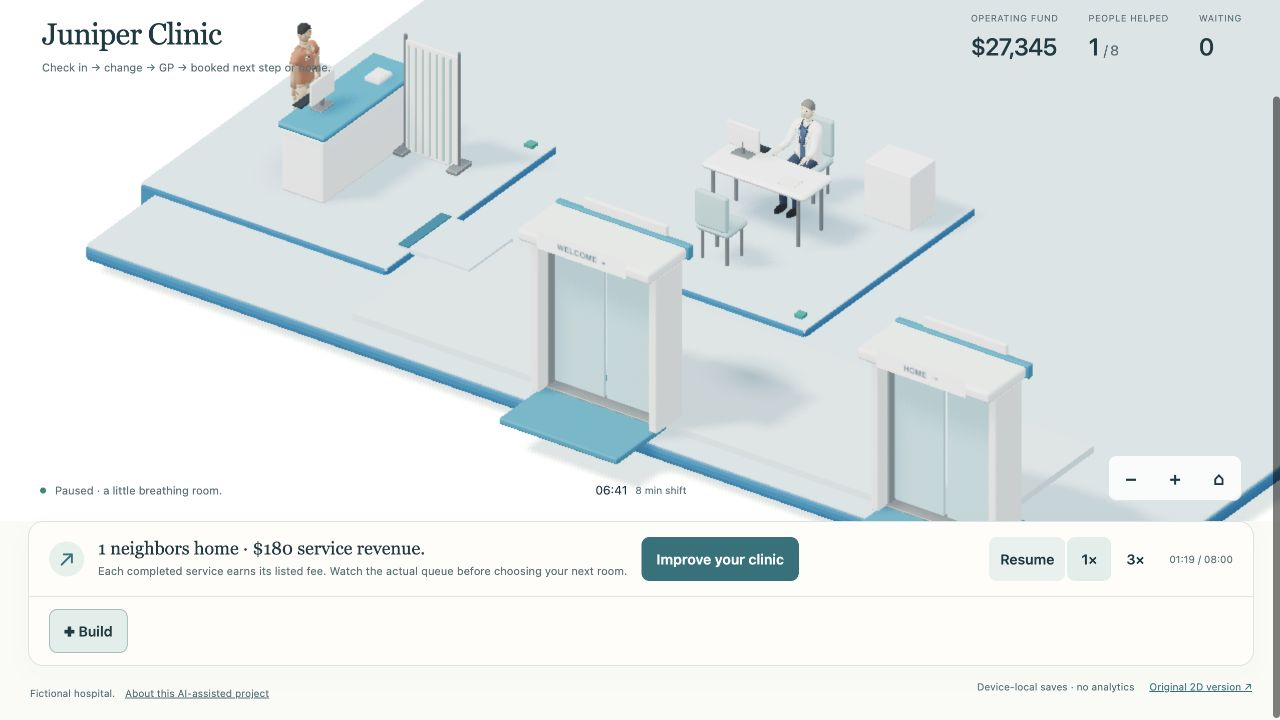
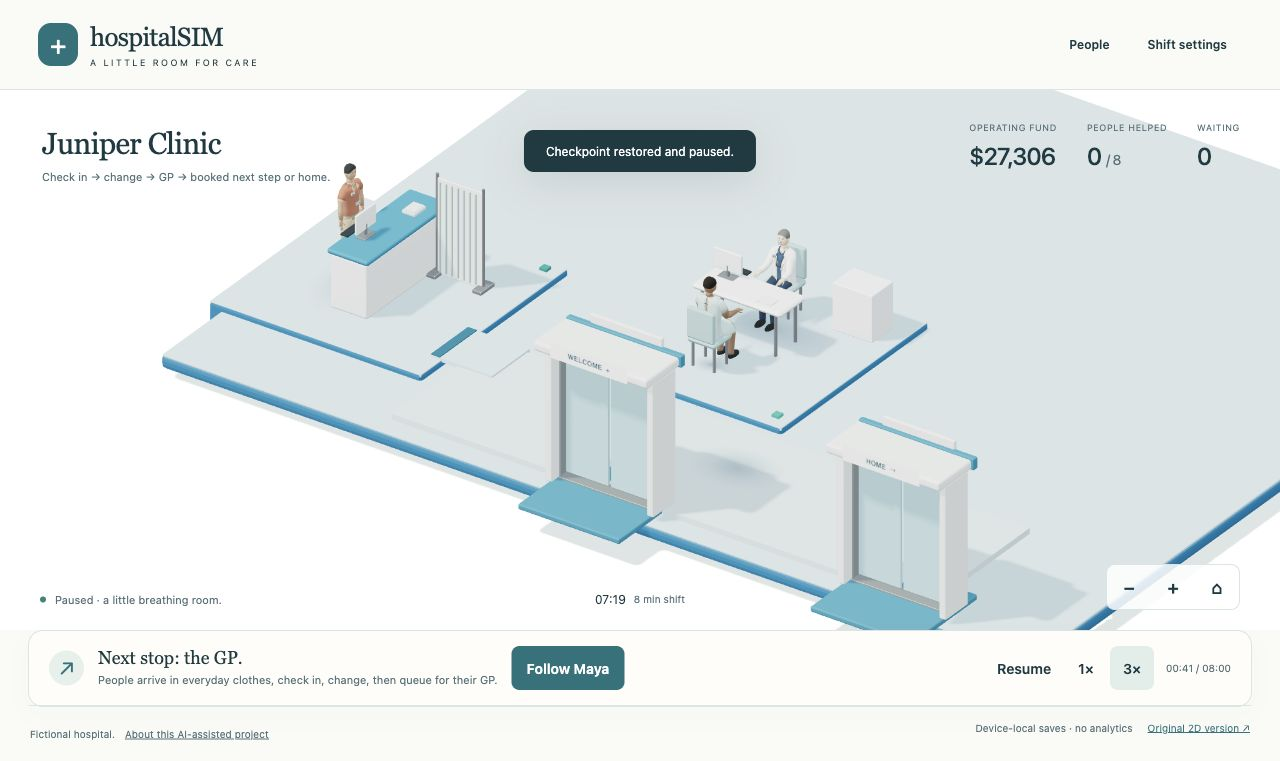
Show the occupied GP pose in release evidence

diff --git a/arjan-portfolio/public/hospitalsim/docs/clinic-flow.html b/arjan-portfolio/public/hospitalsim/docs/clinic-flow.html
@@ -1,1 +1,1 @@
-<!doctype html><html lang="en"><meta charset="utf-8"><meta name="viewport" content="width=device-width,initial-scale=1"><title>hospitalSIM · A believable visit</title><style>body{max-width:1000px;margin:40px auto;padding:0 22px;background:#fafaf6;color:#183b43;font:16px/1.7 system-ui}h1,h2{font-family:Georgia}h1{font-size:38px}a{color:#176a76}video,img{max-width:100%;height:auto;border-radius:10px}pre{overflow:auto;background:#e8f0ed;padding:16px}nav a{display:inline-block;padding:10px}small{display:block;color:#54727a}</style><nav><a href="../index.html?release=127">Play hospitalSIM</a><a href="clinic-flow.html">Current flow & recording</a><a href="README.html">Source & model</a></nav><h1>Arrive. Check in. Meet your GP.</h1><p>RC5 starts empty. Build reception and hire Quinn, then add a GP room and hire Mira. Open the doors when ready. Patients arrive in everyday clothes and use their own side of the desk. Completed services earn fees.</p><h2>The actual first patient loop</h2><video controls playsinline preload="metadata" src="clinic-flow-loop.mp4" aria-label="Recorded first patient loop with game-state captions"></video><p><a href="clinic-flow-loop.mp4" download>Download recording</a> · <a href="clinic-flow-loop.json">Recorded state and decisions</a></p><p>90 game seconds from an empty clinic, seed431, normal speed. Includes original Blender models, build/hire/open actions, arrival, check-in, gown change, GP service, fee and completed exit. The recording captures the actual3Dcanvas with state captions; HTML menus are summarized, and no audio is recorded. The state log replays exactly in a headless check.</p><h2>Booked services, introduced gradually</h2><p>Pharmacy has a separately hired pharmacist. Neurology, gait assessment, video EEG and sleep labs each need an appropriate assigned colleague. These are pre-booked fictional visits, not player diagnoses or medication choices. All-visitor gown changes and short service times are game conventions.</p><img src="clinic-gp-conversation.png" alt="Original patient and GP at separate chairs across the desk"><img src="clinic-gait.png" alt="An ordinary voluntary walk through the gait assessment rails"><img src="clinic-sleep-lab.png" alt="Fictional patient resting in the sleep lab"><h2>Reference beside the current build</h2><img src="reference-versus-clinic.webp" alt="Supplied hospital visualization on the left and the current hospitalSIM clinic on the right"><p>The camera elevation is comparable; the composition is different. The reference has more natural humans, richer fabric, finer hand contact, softer shadows and a much stronger three-platform hierarchy. The current clinic is flatter, simpler and sparser. This is a flow improvement, not a claim of equivalent visual quality.</p><h2>Mobile checks and measured limits</h2><p>At390×844 on the desktop’s Apple M2 browser, the mobile30 renderer was active. The observed two-room scene used58,089 main-pass triangles and62 draw calls; sampled mean frame interval33.38ms, p95 49.90ms. A later pickup test confirmed direct press, opacity0.5, green valid landings, placement and a reaction. All visible essential controls were at least44px high and the page width remained390px. These figures are desktop narrow-viewport observations, not an iPhone benchmark.</p><img src="clinic-mobile-pickup.png" alt="Narrow viewport showing translucent character pickup with green valid regions"><p>Initial GLBs measure19.01MB raw and6.24MB gzip locally. Actual CDN transfer and phone performance require separate measurement. The27 game suites,250 portfolio tests, type check and production build are part of this release’s verification record. No application errors remained in the working QA origin; an earlier local-server connection failure was fixed before publication.</p><p><a href="CLINIC_FLOW_RC5.html">Full model, clinical terminology sources, executed Blender pipeline and limitations</a> · <a href="ASSET_MANIFEST.json">Asset provenance and measured geometry</a> · <a href="first-clinic.html">Historical RC4 opening</a></p><p>This remains a substantially AI-assisted engineering release candidate. No external clinician/educator review, physical-iPhone retest or learning/fun efficacy study is claimed.</p></html>
+<!doctype html><html lang="en"><meta charset="utf-8"><meta name="viewport" content="width=device-width,initial-scale=1"><title>hospitalSIM · A believable visit</title><style>body{max-width:1000px;margin:40px auto;padding:0 22px;background:#fafaf6;color:#183b43;font:16px/1.7 system-ui}h1,h2{font-family:Georgia}h1{font-size:38px}a{color:#176a76}video,img{max-width:100%;height:auto;border-radius:10px}pre{overflow:auto;background:#e8f0ed;padding:16px}nav a{display:inline-block;padding:10px}small{display:block;color:#54727a}</style><nav><a href="../index.html?release=127">Play hospitalSIM</a><a href="clinic-flow.html">Current flow & recording</a><a href="README.html">Source & model</a></nav><h1>Arrive. Check in. Meet your GP.</h1><p>RC5 starts empty. Build reception and hire Quinn, then add a GP room and hire Mira. Open the doors when ready. Patients arrive in everyday clothes and use their own side of the desk. Completed services earn fees.</p><h2>The actual first patient loop</h2><video controls playsinline preload="metadata" src="clinic-flow-loop.mp4" aria-label="Recorded first patient loop with game-state captions"></video><p><a href="clinic-flow-loop.mp4" download>Download recording</a> · <a href="clinic-flow-loop.json">Recorded state and decisions</a></p><p>90 game seconds from an empty clinic, seed431, normal speed. Includes original Blender models, build/hire/open actions, arrival, check-in, gown change, GP service, fee and completed exit. The recording captures the actual3Dcanvas with state captions; HTML menus are summarized, and no audio is recorded. The state log replays exactly in a headless check.</p><h2>Booked services, introduced gradually</h2><p>Pharmacy has a separately hired pharmacist. Neurology, gait assessment, video EEG and sleep labs each need an appropriate assigned colleague. These are pre-booked fictional visits, not player diagnoses or medication choices. All-visitor gown changes and short service times are game conventions.</p><p>Still images use valid model-generated QA checkpoints with extra test funds. They show poses and room layout, not scored gameplay or player results.</p><img src="clinic-gp-conversation.png" alt="Original patient and GP at separate chairs across the desk"><img src="clinic-gait.png" alt="An ordinary voluntary walk through the gait assessment rails"><img src="clinic-sleep-lab.png" alt="Fictional patient resting in the sleep lab"><h2>Reference beside the current build</h2><img src="reference-versus-clinic.webp" alt="Supplied hospital visualization on the left and the current hospitalSIM clinic on the right"><p>The camera elevation is comparable; the composition is different. The reference has more natural humans, richer fabric, finer hand contact, softer shadows and a much stronger three-platform hierarchy. The current clinic is flatter, simpler and sparser. This is a flow improvement, not a claim of equivalent visual quality.</p><h2>Mobile checks and measured limits</h2><p>At390×844 on the desktop’s Apple M2 browser, the mobile30 renderer was active. The observed two-room scene used58,089 main-pass triangles and62 draw calls; sampled mean frame interval33.38ms, p95 49.90ms. A later pickup test confirmed direct press, opacity0.5, green valid landings, placement and a reaction. All visible essential controls were at least44px high and the page width remained390px. These figures are desktop narrow-viewport observations, not an iPhone benchmark.</p><img src="clinic-mobile-pickup.png" alt="Narrow viewport showing translucent character pickup with green valid regions"><p>Initial GLBs measure19.01MB raw and6.24MB gzip locally. Actual CDN transfer and phone performance require separate measurement. The27 game suites,250 portfolio tests, type check and production build are part of this release’s verification record. No application errors remained in the working QA origin; an earlier local-server connection failure was fixed before publication.</p><p><a href="CLINIC_FLOW_RC5.html">Full model, clinical terminology sources, executed Blender pipeline and limitations</a> · <a href="ASSET_MANIFEST.json">Asset provenance and measured geometry</a> · <a href="first-clinic.html">Historical RC4 opening</a></p><p>This remains a substantially AI-assisted engineering release candidate. No external clinician/educator review, physical-iPhone retest or learning/fun efficacy study is claimed.</p></html>
